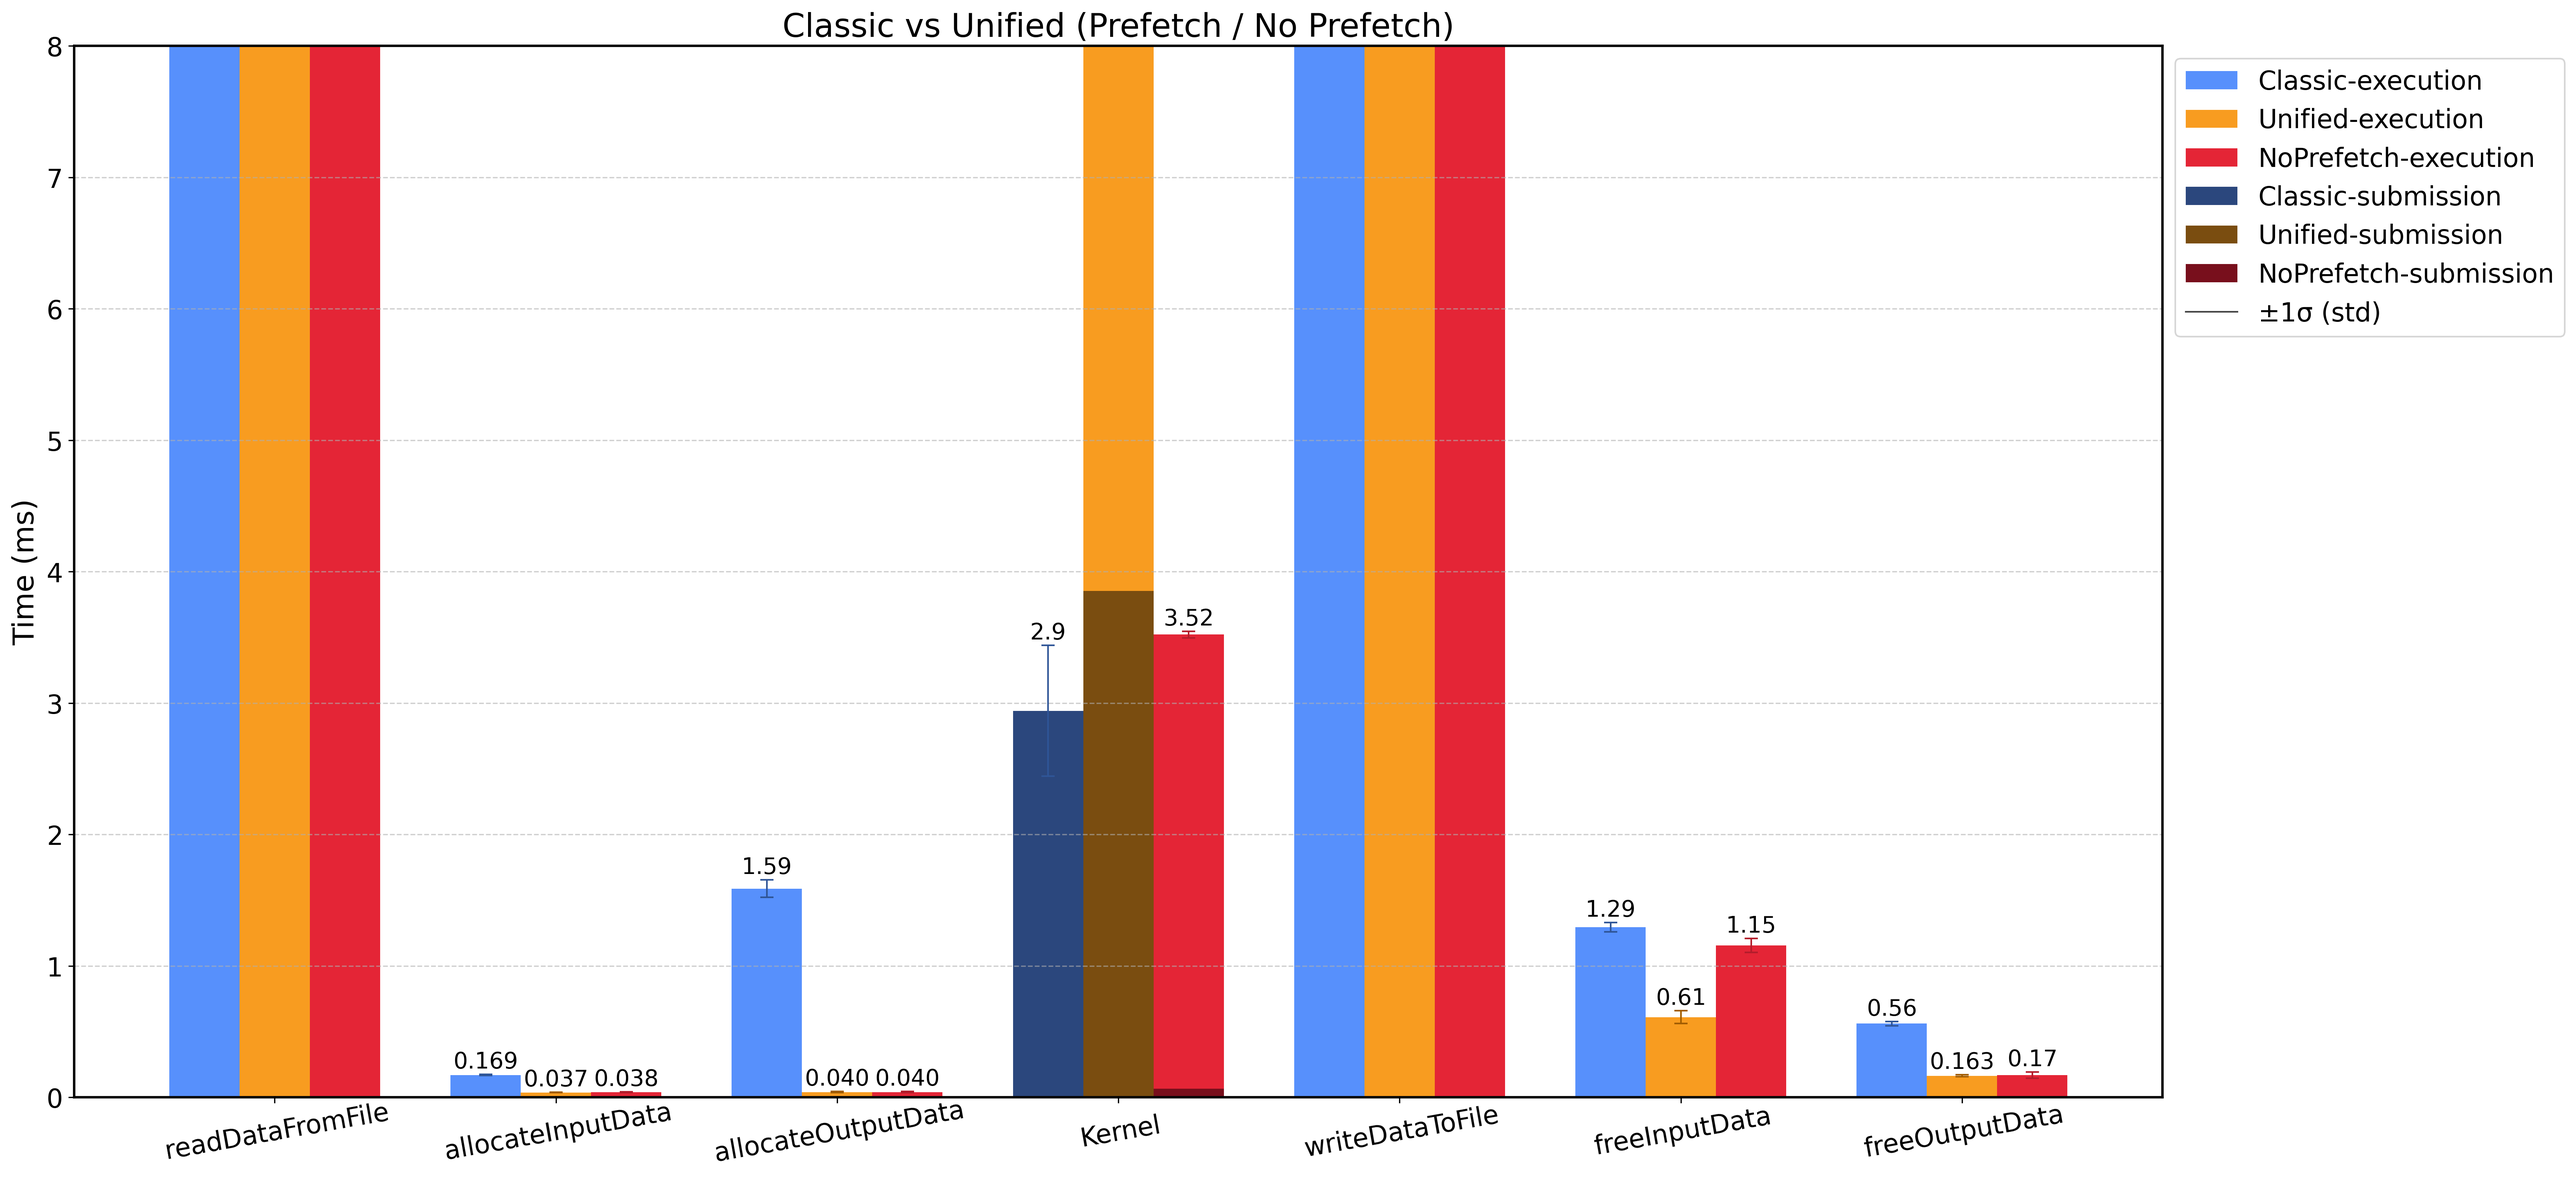
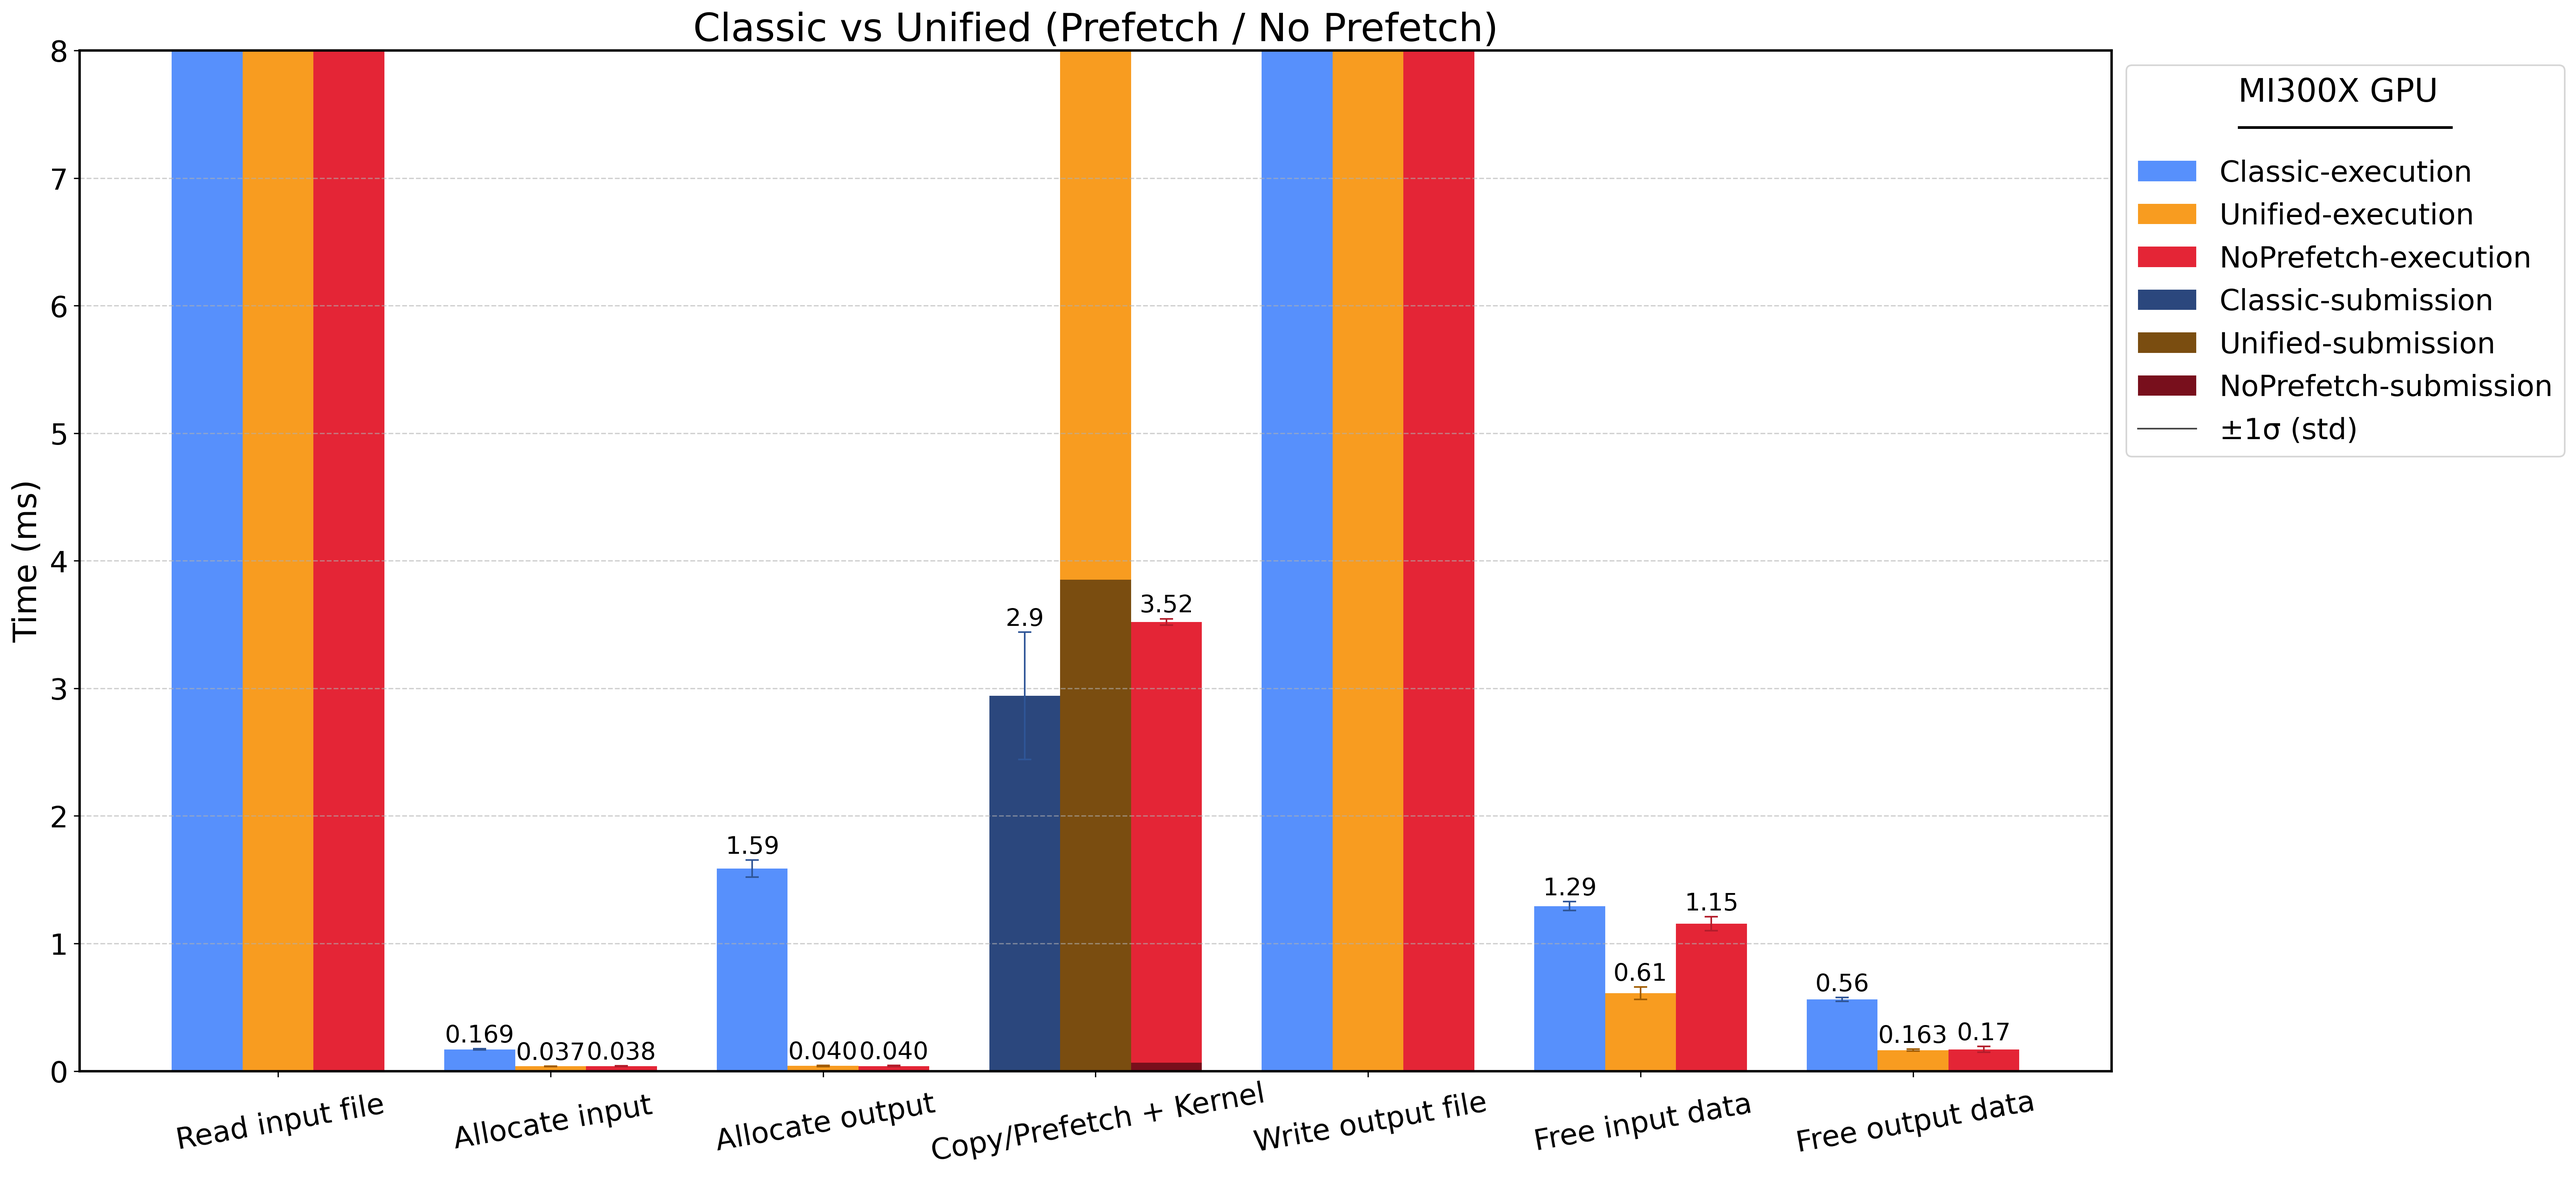
ACAT Plots

diff --git a/Results/compare_timing.py b/Results/compare_timing.py
@@ -101,13 +101,15 @@ merged_std = merged_std.merge(
 # Save merged mean for the base bar chart 
 merged_mean.to_csv(f"{results}/mean_timing_comparison.csv", index=False)
 
+gpu_name = results.replace("Results_", "")
+
 plt.rcParams.update({
-    "font.size": 14,               # default font size
-    "axes.titlesize": 20,          # bigger title
-    "axes.labelsize": 18,          # x and y labels
-    "xtick.labelsize": 16,         # tick labels
-    "ytick.labelsize": 16,
-    "legend.fontsize": 16,
+    "font.size": 15,               # default font size
+    "axes.titlesize": 24,          # bigger title
+    "axes.labelsize": 20,          # x and y labels
+    "xtick.labelsize": 18,         # tick labels
+    "ytick.labelsize": 18,
+    "legend.fontsize": 18,
     "axes.linewidth": 1.5          # thicker border
 })
 
@@ -202,13 +204,22 @@ def get_std(op, col):
 SIMPLE_OPS = ["readDataFromFile", "allocateInputData", "allocateOutputData",
               "writeDataToFile", "freeInputData", "freeOutputData"]
 
+OP_NAMES = {
+    "readDataFromFile": "Read input file",
+    "allocateInputData": "Allocate input",
+    "allocateOutputData": "Allocate output",
+    "writeDataToFile": "Write output file",
+    "freeInputData": "Free input data",
+    "freeOutputData": "Free output data"
+}
+
 groups = []
 for op in SIMPLE_OPS[:3]: groups.append(("simple", op, op))
-groups.append(("kernel", "Kernel", "Kernel"))   # single stacked "Kernel" group
+groups.append(("kernel", "Kernel", "Copy/Prefetch + Kernel"))   # single stacked "Kernel" group
 for op in SIMPLE_OPS[3:]: groups.append(("simple", op, op))
 
 x = np.arange(len(groups))
-bar_width = 0.25
+bar_width = 0.26
 OFFSETS = (-bar_width, 0.0, +bar_width)  # Classic, Unified, NoPrefetch
 
 # Colors
@@ -309,10 +320,10 @@ def draw_plot(ax):
                         textcoords="offset points", ha="center", va="bottom", fontsize=FS_TOP)
             ax.annotate(fmt_mean_with_error(n_exe, n_exe_std), (xn, y_at_std_top(n_exe, n_exe_std)), xytext=(0, TOP_DY),
                         textcoords="offset points", ha="center", va="bottom", fontsize=FS_TOP)
-    labels = [pretty for _,_,pretty in groups]
+    labels = [OP_NAMES.get(pretty, pretty) for _, _, pretty in groups]
     ax.set_xticks(x)
     ax.set_xticklabels(labels, rotation=10, ha="center", rotation_mode="anchor")
-    ax.tick_params(axis="x", pad=10) 
+    ax.tick_params(axis="x", pad=20) 
     ax.set_ylabel("Time (ms)")
     ax.set_title("Classic vs Unified (Prefetch / No Prefetch)")
     ax.grid(axis="y", linestyle="--", alpha=0.6)
@@ -322,7 +333,7 @@ def draw_plot(ax):
     handles, lbls = ax.get_legend_handles_labels()
     if "±1σ (std)" not in lbls:
         handles.append(err_proxy); lbls.append("±1σ (std)")
-    ax.legend(handles, lbls, loc="upper left", bbox_to_anchor=(1, 1))
+    ax.legend(handles, lbls, loc="upper left", bbox_to_anchor=(1, 1), title=f"{gpu_name} GPU\n───────────", title_fontsize=20)
 
 def make_variant(scale="linear", ylim=None, suffix="linear"):
     fig, ax = plt.subplots(figsize=(22, 10), constrained_layout=True)
